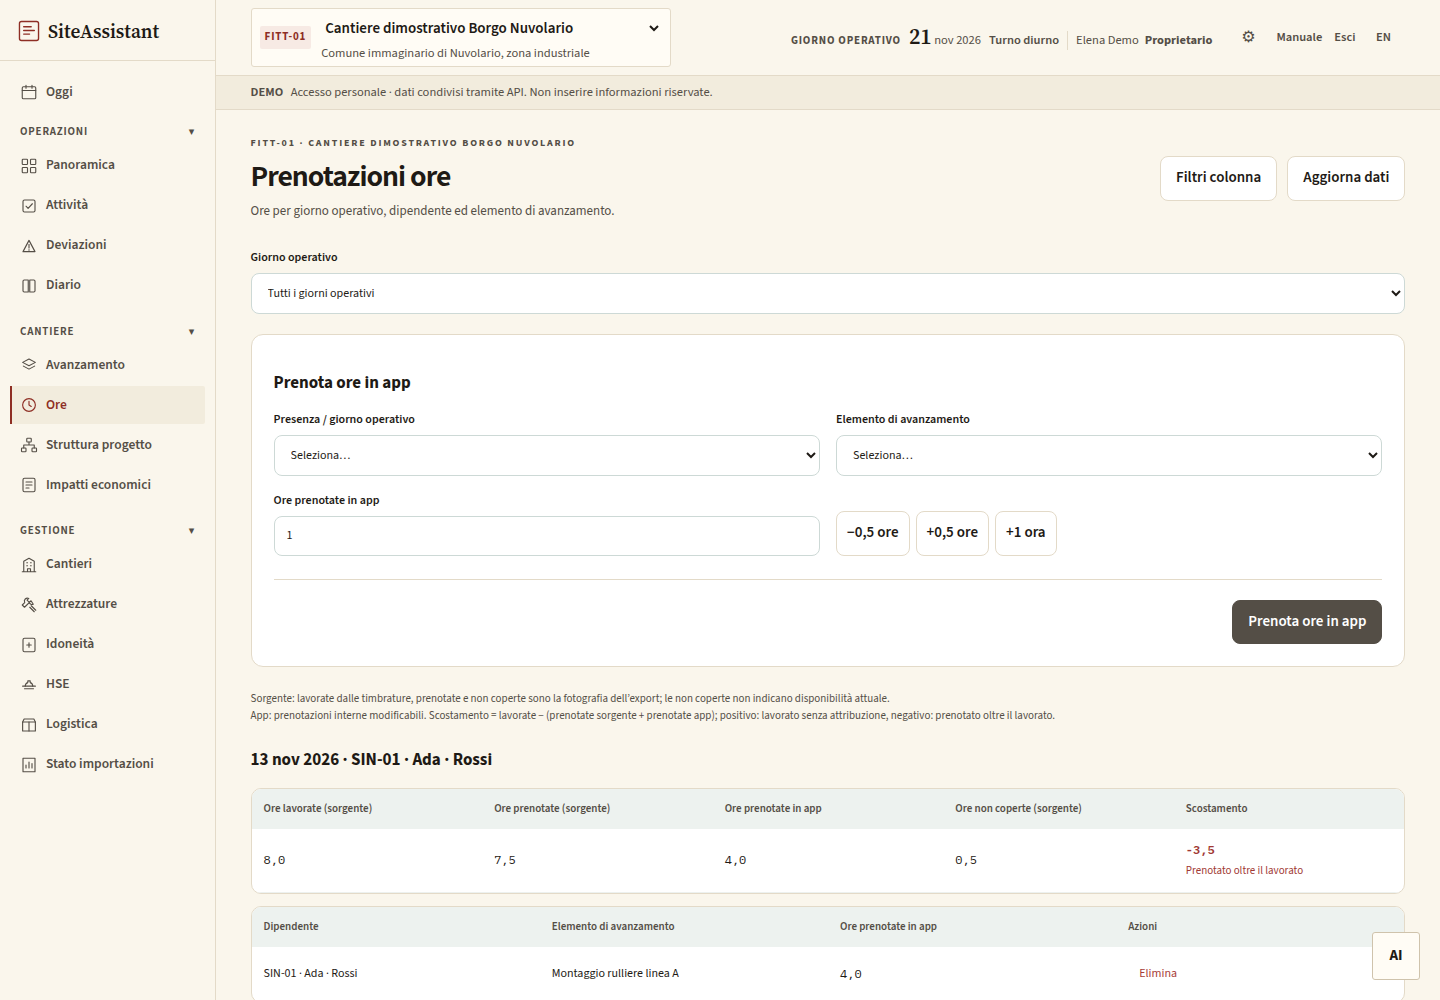
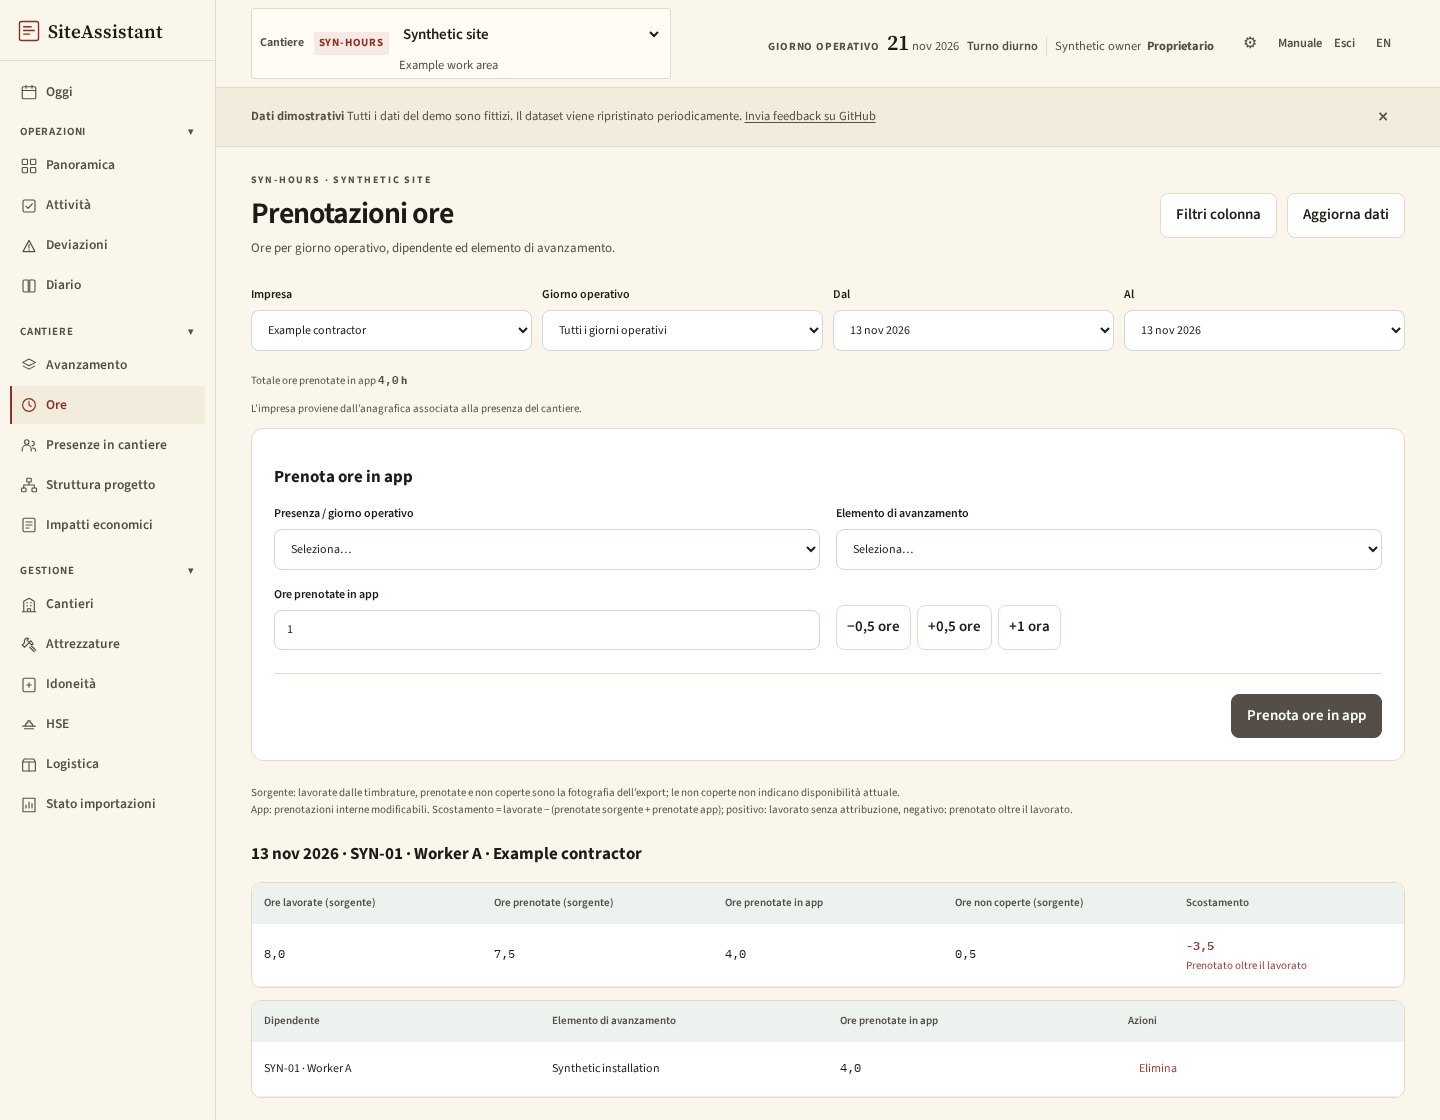
Documentation: WBS, imports, anchors, mobile and hours roadmap (#27)
* Describe the WBS as operational in manual diagrams

Align the project tree and IT/EN module diagrams with local WBS editing. Manual build and links passed.

* Validate original screenshot dimensions in the manual

Declare actual image dimensions and check the source metadata at build time. Manual build passed.

* Document the four planning import steps with screenshots

Show the real file selection and preview dialogs in both languages. Replayed a synthetic XLSX through Preview and Confirm and built the manual.

* Validate internal manual anchors and fix broken links

Decode fragments and check IDs in local generated pages. Correct Fitness and task-to-WBS links. Manual build passed with 1,949 anchors.

* Match English and Italian booking screenshots and alt text

Capture the same company, day and hours in both locales. Verified the localized source and alt/caption pairs for all 31 manual screenshots.

* Localize the board and WBS diagrams for each manual

Translate diagram labels, status names, sample text and alternative names. The Italian and English pages load their corresponding SVGs. Manual build passed.

* Describe WBS editing and source provenance on the manual home

The IT/EN home cards explain operational editing and where imported values come from. Manual build and anchors passed.

* Record the future hours-threshold roadmap

* Update diary correction documentation for D5.1

---------

diff --git a/docs-site/src/content/docs/riferimento/api.md b/docs-site/src/content/docs/riferimento/api.md
@@ -84,17 +84,13 @@ Ogni cantiere dichiara una **giurisdizione**, `IT` o `UK`: è il diritto che si 
 | Metodo | Percorso | Accesso | Note |
 | :-- | :-- | :-- | :-- |
 | GET | `/api/diary?site_id=` | membro | Voci del cantiere; accetta anche `siteId` |
-| POST | `/api/diary` | owner/editor/verifier con modulo Diario | Una voce per cantiere, giorno e turno |
-| PATCH | `/api/diary/{id}` | autore entro sette giorni oppure owner, con modulo Diario | Corregge il contenuto e archivia la versione precedente |
-| GET | `/api/diary/{id}/versions` | membro con modulo Diario | Versioni in ordine decrescente |
+| POST | `/api/diary` | owner/editor/verifier | Una voce per cantiere/data/turno |
+| PATCH | `/api/diary/{id}` | owner o editor entro il giorno operativo corrente | Rettifica il contenuto con motivazione obbligatoria |
+| GET | `/api/diary/{id}/versions` | membro del cantiere con accesso al diario | Versioni precedenti, dalla più recente |
 
 `POST /api/diary` usa il fuso e l'ora di taglio del cantiere. Ometti `operational_date` e `shift` per far assegnare entrambi dal server al salvataggio. Se invii la data senza il turno, il server assegna il turno corrente. Per registrare una data e un turno specifici, invia `operational_date` in formato `YYYY-MM-DD` e `shift` con valore `day` o `night`. Gli eventuali campi `time_zone` e `day_cutoff_time` devono coincidere con quelli del cantiere, altrimenti la risposta è `400 VALIDATION_ERROR`. La voce registra entrambi i valori alla creazione.
 
-La finestra di sette giorni si calcola confrontando `operational_date` con la data di calendario corrente nel fuso del cantiere. Una data futura restituisce `400 VALIDATION_ERROR`. Per una data più vecchia di sette giorni, il `POST` richiede il ruolo owner e una `motivation` di almeno 10 caratteri dopo aver rimosso gli spazi iniziali e finali. La risposta registra `author_id`, `recorded_late` e `recording_motivation`.
-
-Il `PATCH` richiede almeno uno tra `plan`, `actual`, `impediments` e `next_step`. Usa una stringa vuota per svuotare un campo. Il giorno operativo e il turno sono fissi. Per correggere una voce altrui, senza autore associato o oltre i sette giorni serve un owner e vale lo stesso requisito per `motivation`. Un ruolo insufficiente restituisce `403 FORBIDDEN`. Una motivazione obbligatoria mancante o troppo breve restituisce `400 MOTIVATION_REQUIRED`. La risposta riporta la voce aggiornata con `updated_at`, `updated_by` e `updated_by_name`.
-
-L'endpoint delle versioni restituisce un array, vuoto fino alla prima correzione. Ogni elemento include `version`, `snapshot` con la voce prima della correzione, `author_id` e `author_name` di chi ha eseguito la correzione, `created_at` e `motivation` se fornita.
+Una rettifica accetta uno o più campi tra `plan`, `actual`, `impediments` e `next_step`. Ogni rettifica richiede `motivation` di almeno 10 caratteri esclusi gli spazi iniziali e finali, altrimenti risponde `400 MOTIVATION_REQUIRED`. La data operativa resta fissa. Alla successiva ora di taglio nel fuso corrente del cantiere termina il permesso dell’editor. Ogni rettifica archivia la versione precedente con autore della rettifica (`author_id`), data e ora (`created_at`) e motivo (`motivation`).
 
 Le due liste accettano sia `site_id` sia `siteId`, perché le attività e il diario usavano storicamente il secondo nome. Un parametro di query non previsto viene rifiutato con `400 VALIDATION_ERROR` invece di essere ignorato: un filtro scritto male non restituisce un elenco non filtrato.
 

diff --git a/docs-site/src/content/docs/en/riferimento/api.md b/docs-site/src/content/docs/en/riferimento/api.md
@@ -84,17 +84,13 @@ Every site declares a **jurisdiction**, `IT` or `UK`: it is the law that applies
 | Method | Path | Access | Notes |
 | :-- | :-- | :-- | :-- |
 | GET | `/api/diary?site_id=` | member | Site entries; `siteId` is accepted too |
-| POST | `/api/diary` | owner/editor/verifier with Diary access | One entry per site, day and shift |
-| PATCH | `/api/diary/{id}` | author within seven days or owner, with Diary access | Corrects content and archives the previous version |
-| GET | `/api/diary/{id}/versions` | member with Diary access | Versions in descending order |
+| POST | `/api/diary` | owner/editor/verifier | One entry per site/date/shift |
+| PATCH | `/api/diary/{id}` | owner or editor during the current operational day | Corrects content with a required reason |
+| GET | `/api/diary/{id}/versions` | site member with diary access | Previous snapshots, newest first |
 
 `POST /api/diary` uses the site's time zone and cutoff. Omit `operational_date` and `shift` to have the server assign both when it records the entry. If you supply a date and omit the shift, the server assigns the current shift. To record a specific date and shift, send `operational_date` in `YYYY-MM-DD` format and `shift` as `day` or `night`. Any supplied `time_zone` and `day_cutoff_time` must match the site settings, otherwise the response is `400 VALIDATION_ERROR`. The entry records both settings when it is created.
 
-The seven-day window compares `operational_date` with the current calendar date in the site's time zone. A future date returns `400 VALIDATION_ERROR`. For dates more than seven days old, `POST` requires the owner role and a `motivation` of at least 10 characters after trimming whitespace. The response includes `author_id`, `recorded_late` and `recording_motivation`.
-
-The `PATCH` requires at least one of `plan`, `actual`, `impediments` and `next_step`. Use an empty string to clear a field. The operational date and shift are fixed. Correcting another author's entry, an entry without a linked author or an entry more than seven days old requires an owner and the same `motivation` rule. Insufficient permissions return `403 FORBIDDEN`. A missing or too-short required reason returns `400 MOTIVATION_REQUIRED`. The response gives the updated entry with `updated_at`, `updated_by` and `updated_by_name`.
-
-The versions endpoint returns an array, empty until the first correction. Each item includes `version`, a `snapshot` of the entry before the correction, the person who corrected it in `author_id` and `author_name`, `created_at` and any supplied `motivation`.
+A correction accepts one or more of `plan`, `actual`, `impediments` and `next_step`. Every correction requires `motivation` with at least 10 characters after trimming, otherwise it returns `400 MOTIVATION_REQUIRED`. The operational date is fixed. At the next cutoff in the site’s current time zone an editor loses permission to correct the entry. Each correction archives the previous snapshot with its author (`author_id`), timestamp (`created_at`) and reason (`motivation`).
 
 Both lists accept `site_id` and `siteId`, because tasks and diary historically used the second name. An unexpected query parameter is rejected with `400 VALIDATION_ERROR` instead of being ignored: a mistyped filter never returns an unfiltered list.
 

diff --git a/docs-site/src/content/docs/note/novita.md b/docs-site/src/content/docs/note/novita.md
@@ -34,7 +34,7 @@ Questa pagina raccoglie le modifiche visibili a chi usa l'applicazione. Non è u
 
 - **Cambio stato rapido dalle schede attività.** Nella bacheca ogni scheda ha un pulsante **⋯** che apre il menu **Cambia stato**: la finestra mostra lo stato corrente e i soli passaggi consentiti, ciascuno con **Passa a …**. Se il passaggio richiede una nota o una motivazione si apre la finestra consueta, altrimenti il cambio viene registrato subito. Stessi permessi e stessa cronologia del dettaglio. Vedi [Attività](../../moduli/attivita/#cambiare-stato-dalla-bacheca).
 
-- **Le attività si collegano alla struttura progetto.** Il form **Nuova attività** ha il selettore **Struttura progetto**, e nel dettaglio la riga **Struttura progetto** mostra il nodo collegato con il comando **Associa alla WBS** per owner ed editor. Schede, filtri e viste collegate mostrano il nodo, o **Da associare** quando il collegamento manca. Vedi [Attività](../../moduli/attivita/#collegare-unattivita-alla-wbs) e [Struttura progetto](../../moduli/wbs/).
+- **Le attività si collegano alla struttura progetto.** Il form **Nuova attività** ha il selettore **Struttura progetto**, e nel dettaglio la riga **Struttura progetto** mostra il nodo collegato con il comando **Associa alla WBS** per owner ed editor. Schede, filtri e viste collegate mostrano il nodo, o **Da associare** quando il collegamento manca. Vedi [Attività](../../moduli/attivita/#collegare-unattivit%C3%A0-alla-wbs) e [Struttura progetto](../../moduli/wbs/).
 
 - **La struttura progetto diventa operativa.** La vista **Struttura progetto** non è più in sola lettura: si creano e si modificano i nodi (**Crea nodo**, **Modifica**), le modifiche locali restano separate dai valori importati e l'import viene riconciliato senza perdere il lavoro fatto. Vedi [Struttura progetto](../../moduli/wbs/).
 
